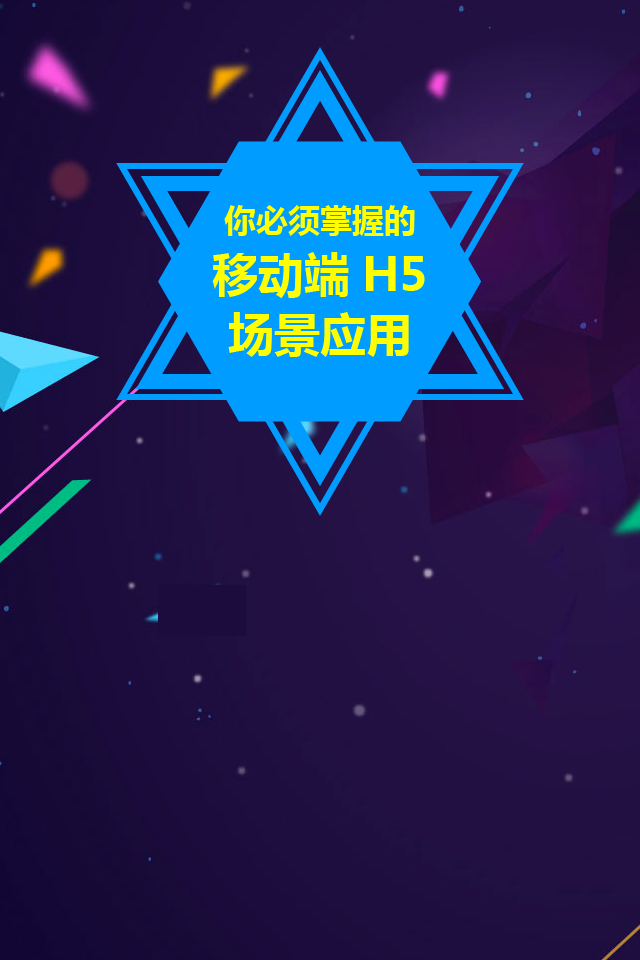
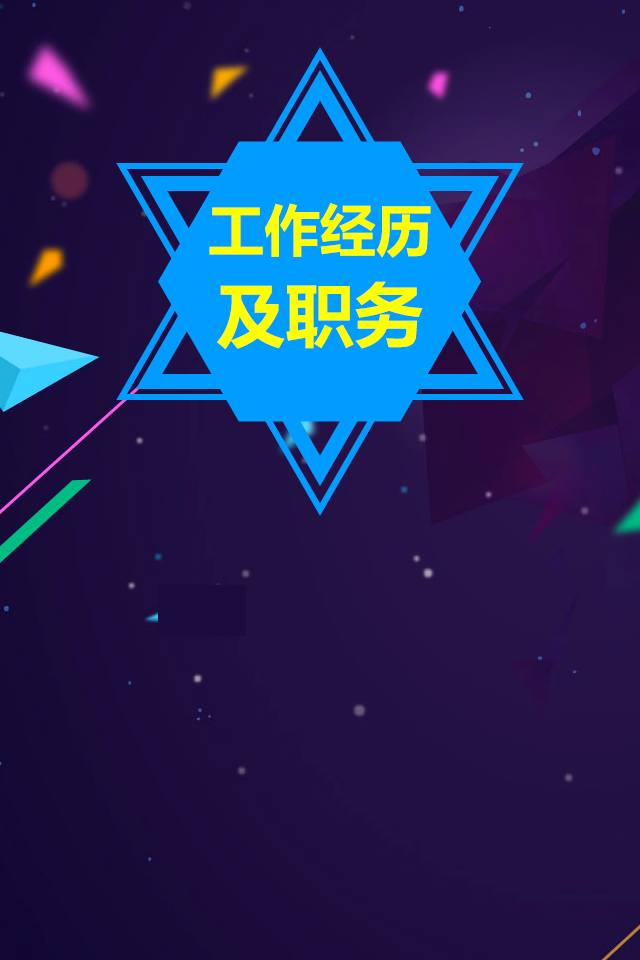
init repository

Changed region(s): [[0.3125, 0.1875, 0.6875, 0.375]]

diff --git a/index.css b/index.css
@@ -42,9 +42,29 @@ html,body{
 .slide li:nth-child(5){
     background: url(images/e.png) no-repeat;
 }
+.slide li:nth-child(6){
+    background: url(images/b.png) no-repeat;
+}
 .zIndex{
     z-index: 111;
 }
+.a0{
+    font-family: 微软雅黑;
+    width: 100%;
+    position: absolute;
+    top:29%;
+    left: 12%;
+    line-height: 90px;
+    font-size: 41px;
+    color: black;
+    text-align: left;
+}
+/*.a0 p:nth-child(odd){
+    -webkit-transform: translate(-500px,0);
+}
+.a0 p:nth-child(even){
+    -webkit-transform: translate(500px,0);
+}*/
 .a1{
     width: 100%;
     position: absolute;
@@ -129,7 +149,7 @@ html,body{
     position: absolute;
     left:50%;
     margin-left: -230px;
-    bottom:20%;
+    bottom:12%;
 }
 #a3{
     -webkit-transform: rotateY(720deg);
@@ -138,7 +158,7 @@ html,body{
 .a4 p{
     box-shadow: 1px 1px 10px rgba(255,255,255,0.8);
     color: #fff;
-    line-height: 25px;
+    line-height: 37px;
     border-radius: 5px;
     width: 0;
     height:0;
@@ -155,16 +175,18 @@ html,body{
     top: 18%;
 }
 .a4 p:nth-child(3){
-    left: 78%;
-    top: 46%;
+    left: 30%;
+    top: 75%;
 }
 
 #a4 p{
-    width: 100px;
-    height: 200px;
+    width: 150px;
+    height: 265px;
+    font-size: 2rem;
+    line-height: 37px;
     -webkit-transition: 1s;
 }
 #a4 p:nth-child(3){
-    width: 80px;
-    height: 200px;
+    width: 240px;
+    height: 120px;
 }

diff --git a/index.html b/index.html
@@ -10,7 +10,17 @@
     <div id="main">
         <ul class="slide">
             <li class="zIndex">
-                <div></div>
+                <div class="a0">
+                    <p>姓名：杨小伟</p>
+                    <p>
+                        性别：男
+                    </p>
+                    <p>
+                        出生年月：1993年3月
+                    </p>
+                    <p>联系电话：18813068824</p>
+                    <p>邮箱：2389469307@qq.com</p>
+                </div>
             </li>
             <li>
                 <div class="a1">
@@ -40,12 +50,12 @@
             </li>
             <li>
                 <div class="a4">
-                    <p>transform transition rotate scale transalte keyframes animation</p>
-                    <p>transform transition rotate scale transalte keyframes animation</p>
-                    <p>transform transition rotate scale transalte keyframes animation</p>
+                    <p>熟练掌握html、div+css，能够手写符合w3c标准的页面代码</p>
+                    <p>用原生js写针对特定问题的库，熟悉jquery</p>
+                    <p>能运用html5、css3进行移动端的页面开发</p>
                 </div>
-
             </li>
+
         </ul>
     </div>
 </body>
